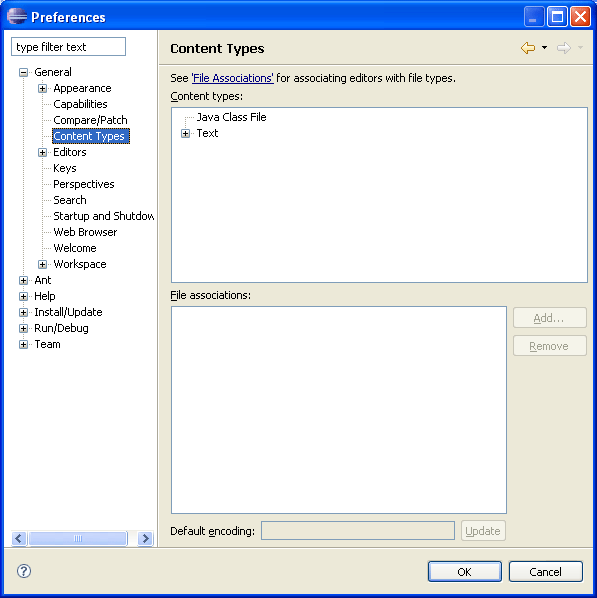
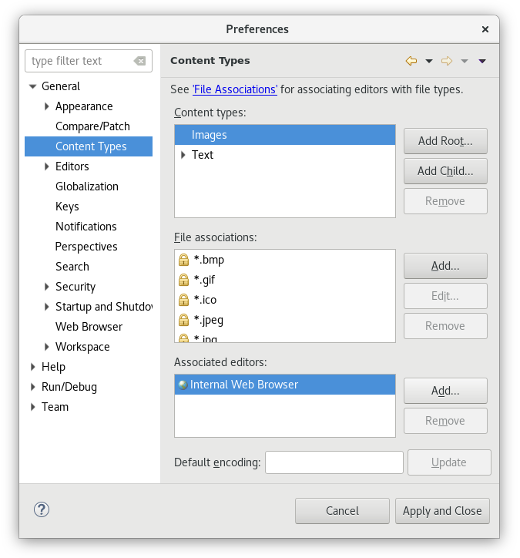
Bug 519815 - Let user associate content-type with editors

diff --git a/bundles/org.eclipse.platform.doc.user/reference/ref-content-type.htm b/bundles/org.eclipse.platform.doc.user/reference/ref-content-type.htm
@@ -13,7 +13,7 @@
 <h1 class="Head">Content Types preference page</h1>
 
 <p class="Para">The <a class="command-link" href='javascript:executeCommand("org.eclipse.ui.window.preferences(preferencePageId=org.eclipse.ui.preferencePages.ContentTypes)")'><img src="PLUGINS_ROOT/org.eclipse.help/command_link.png" alt="command link"><strong>General &gt; Content Types</strong></a>
-  preference page enables you to edit content types and their associated file names and character sets.
+  preference page enables you to edit content types and their associated file names, editors and character sets.
   You can also associate arbitrary file names or file extensions with content types. 
   A <i>content type</i> acts as a description 
   of a certain class of files (for instance, XML files). Eclipse uses this description 
@@ -24,18 +24,26 @@
   &gt; Preferences &gt; General &gt; Content Types</strong>. 
 </p>
 
-<p>The <b>Content Types</b> preference page:
-</p>
-
 <p><img src="../images/content_type.png" alt="Content types preference page">
 </p>
 
+<h2>Manage content type definitions</h2>
+<p class="Para">You can define new content types from this preference page. On the right
+of the tree showing all content types, click on <b>Add Root...</b> or <b>Add Child...</b>
+(in case a content type is already selected) to define a new content type. You'll then be asked for the name.
+</p>
+<p>Content types that were created manually from the preference page are stored in the user data area.</p>
+<p>Content types that were created manually can be removed thanks to the <b>Remove</b> button. Removing a content
+type definition also removes all children content type definitions. Content type that were defined by plug-ins cannot
+be removed.</p>
+
+<h2>Associating content types with file name or extension</h2>
 <p class="Para">By selecting a content type in the topmost tree, you can alter 
   the file names and extensions that are associated with it. 
 </p>
 
 <p class="note"><strong>Note:</strong> 
-  Certain items will be marked as "locked". An item is locked if it is one of 
+  Certain name specification will show a "lock" icon. An item is locked if it is one of 
   the associations provided by the plug-in that declares the content type. In 
   other words, you can remove only user-contributed associations.
 </p>
@@ -47,7 +55,22 @@
 <p><img src="../images/Image201_contenttype.png" alt="New file type dialog" border="0">
 </p>
 
-<p class="Para">In addition to adding and removing file names or extensions, you 
+<h2>Associating editors with content types</h2>
+<p class="Para">The second list below the content types tree shows the editors that are directly
+declared as suitable to open the given content type. Editors associated with parent content types
+are also valid editors for the children content type, although they are not shown there.
+</p>
+<p>For any content type, you can declare a new editor association using the <b>Add...</b> button
+besides the list of editors. This button will let you pick a new editor to associate with the
+selected content type.</p>
+<p><img src="../images/Image202_editorsel.png" alt="Editor selection dialog" border="0">
+</p>
+<p>Those user-defined editor associations are stored in the user data area.</p>
+<p>Editor associations defined manually can be removed thanks to the <b>Remove</b> button. Editor associations
+that were defined by a plug-in are locked and cannot be removed.</p>
+
+<h2>Define default encoding for content type</h2>
+<p class="Para">You 
   can also set the default encoding for a given content type. To do this, simply 
   enter the encoding name in the provided field and click <strong>Update</strong>.
 </p>
